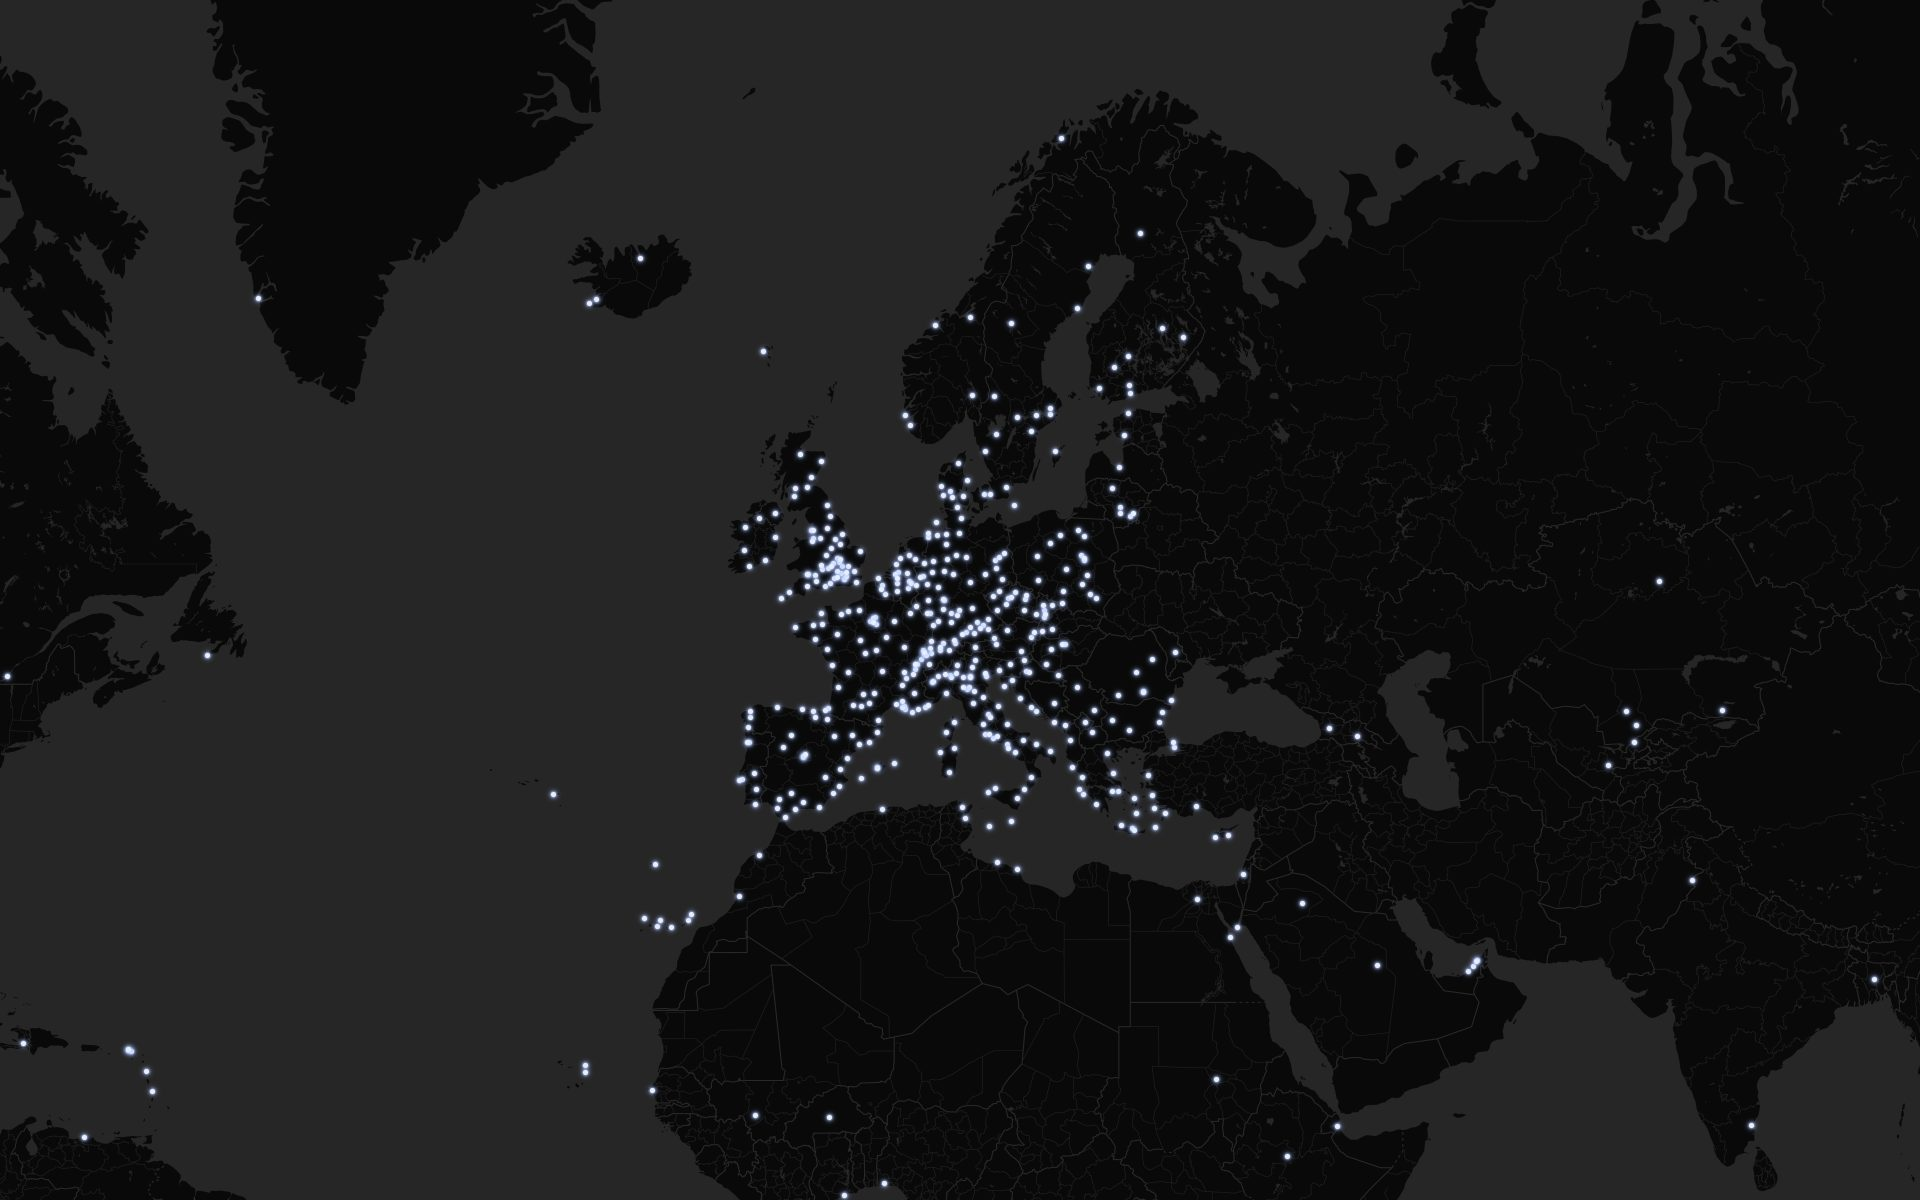
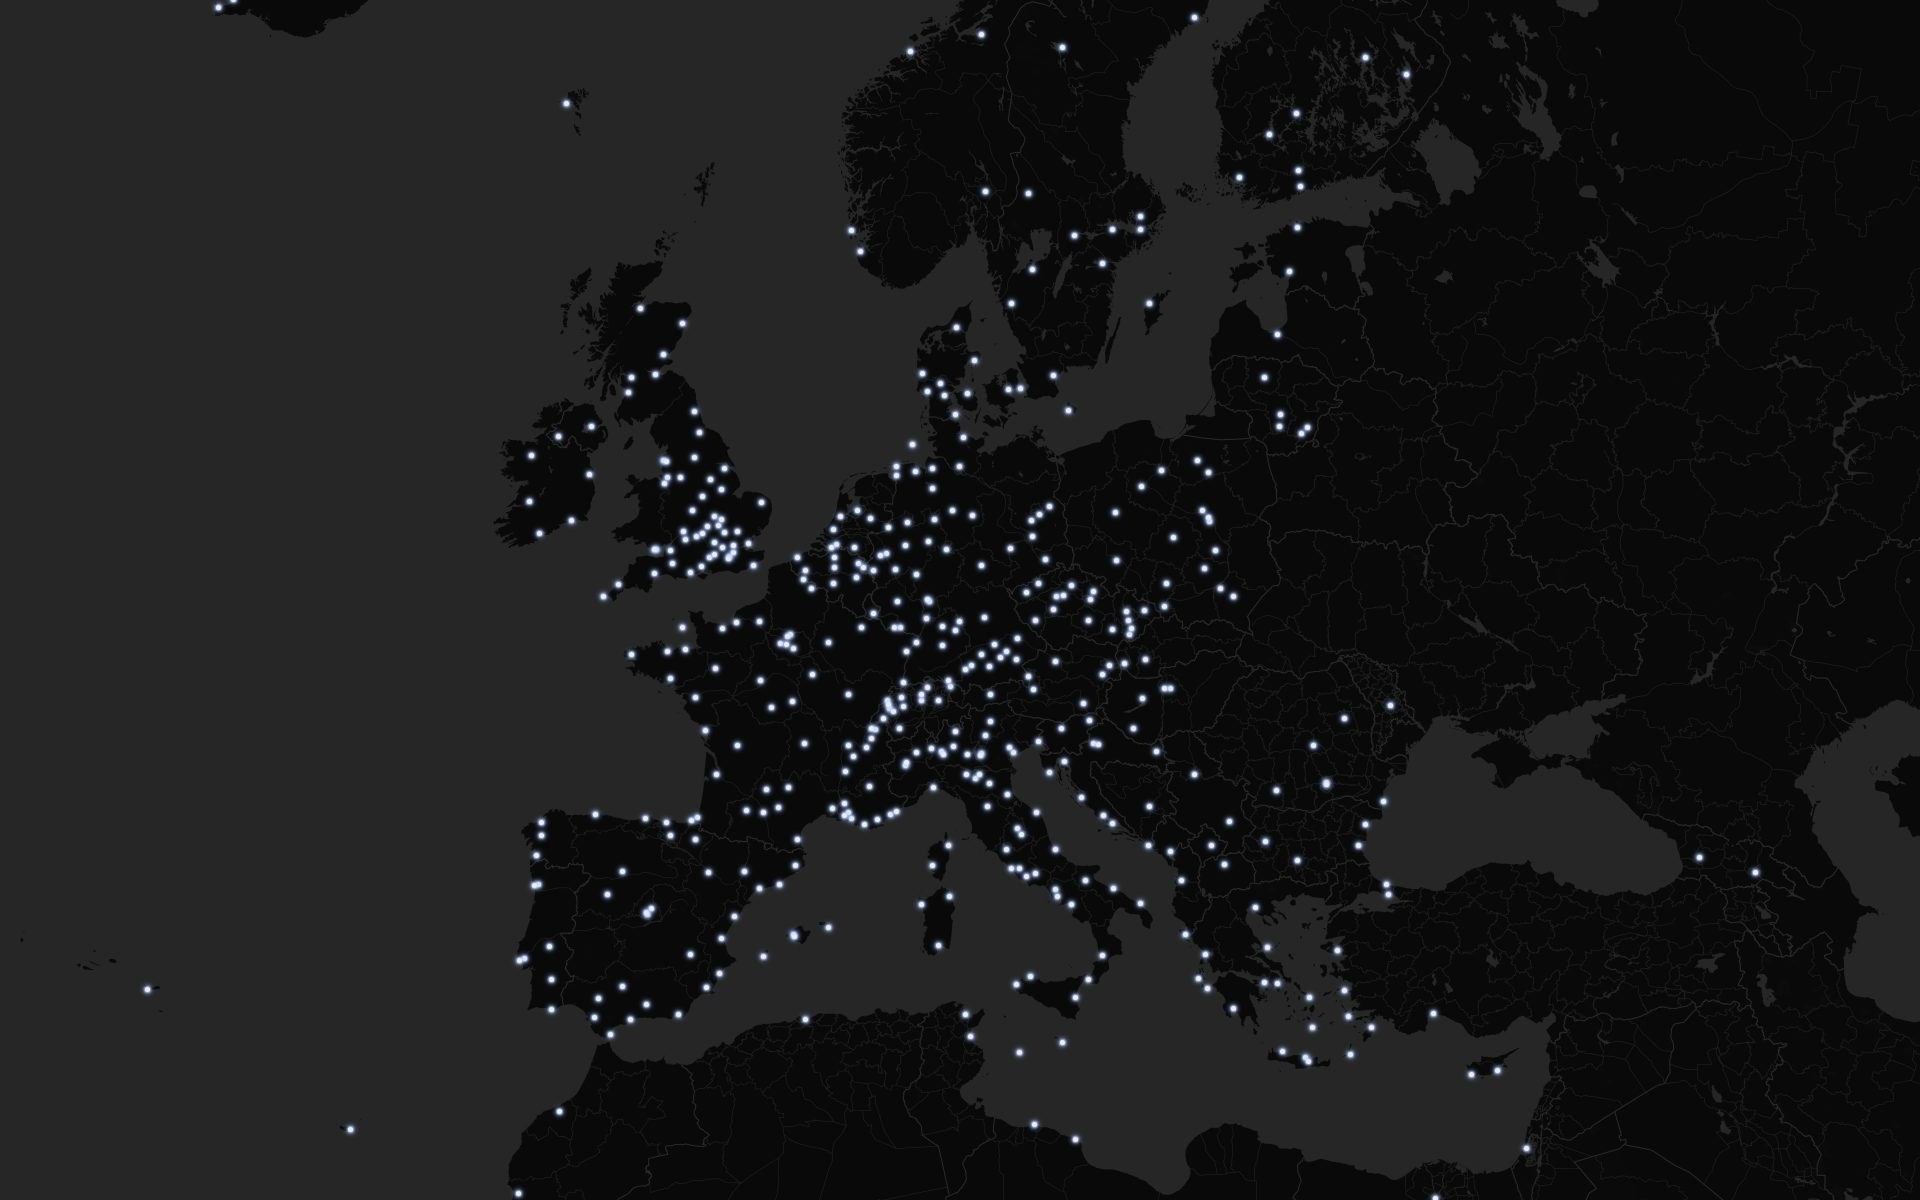
landing: zoom the backdrop image in to match the live map's framing
The first static backdrop was rendered from a raw zoom-4 window, so it showed
far more than the map itself — Greenland, North Africa, western Russia — and
read as zoomed out next to the real map, which is clamped to COVERAGE_BBOX so
Europe fills the screen. Re-render one level tighter (zoom 5) so the image
frames Europe the same way. Same centre, same dots, same build script.

Claude-Session: https://claude.ai/code/session_012XJEhjyQt4MJJumukJUxom

diff --git a/src/components/MapBackdrop.tsx b/src/components/MapBackdrop.tsx
@@ -7,7 +7,8 @@
  * a single static image: a pre-rendered dark map of Europe with the airport dot
  * positions baked in (coordinates only — no names, counts or ids reach the
  * browser, same as before), built from the same CARTO dark tiles + marker set
- * and framed to match the map's own view (centre 10,50 / zoom 4).
+ * and framed to match the map's own view (centre 10,50, zoomed so Europe fills
+ * the frame like the live map's COVERAGE_BBOX does).
  *
  * The frosted look — a light blur, a brightness lift and a slight scale-up to
  * hide the blur's soft edges — is applied here in CSS, exactly as it was over
